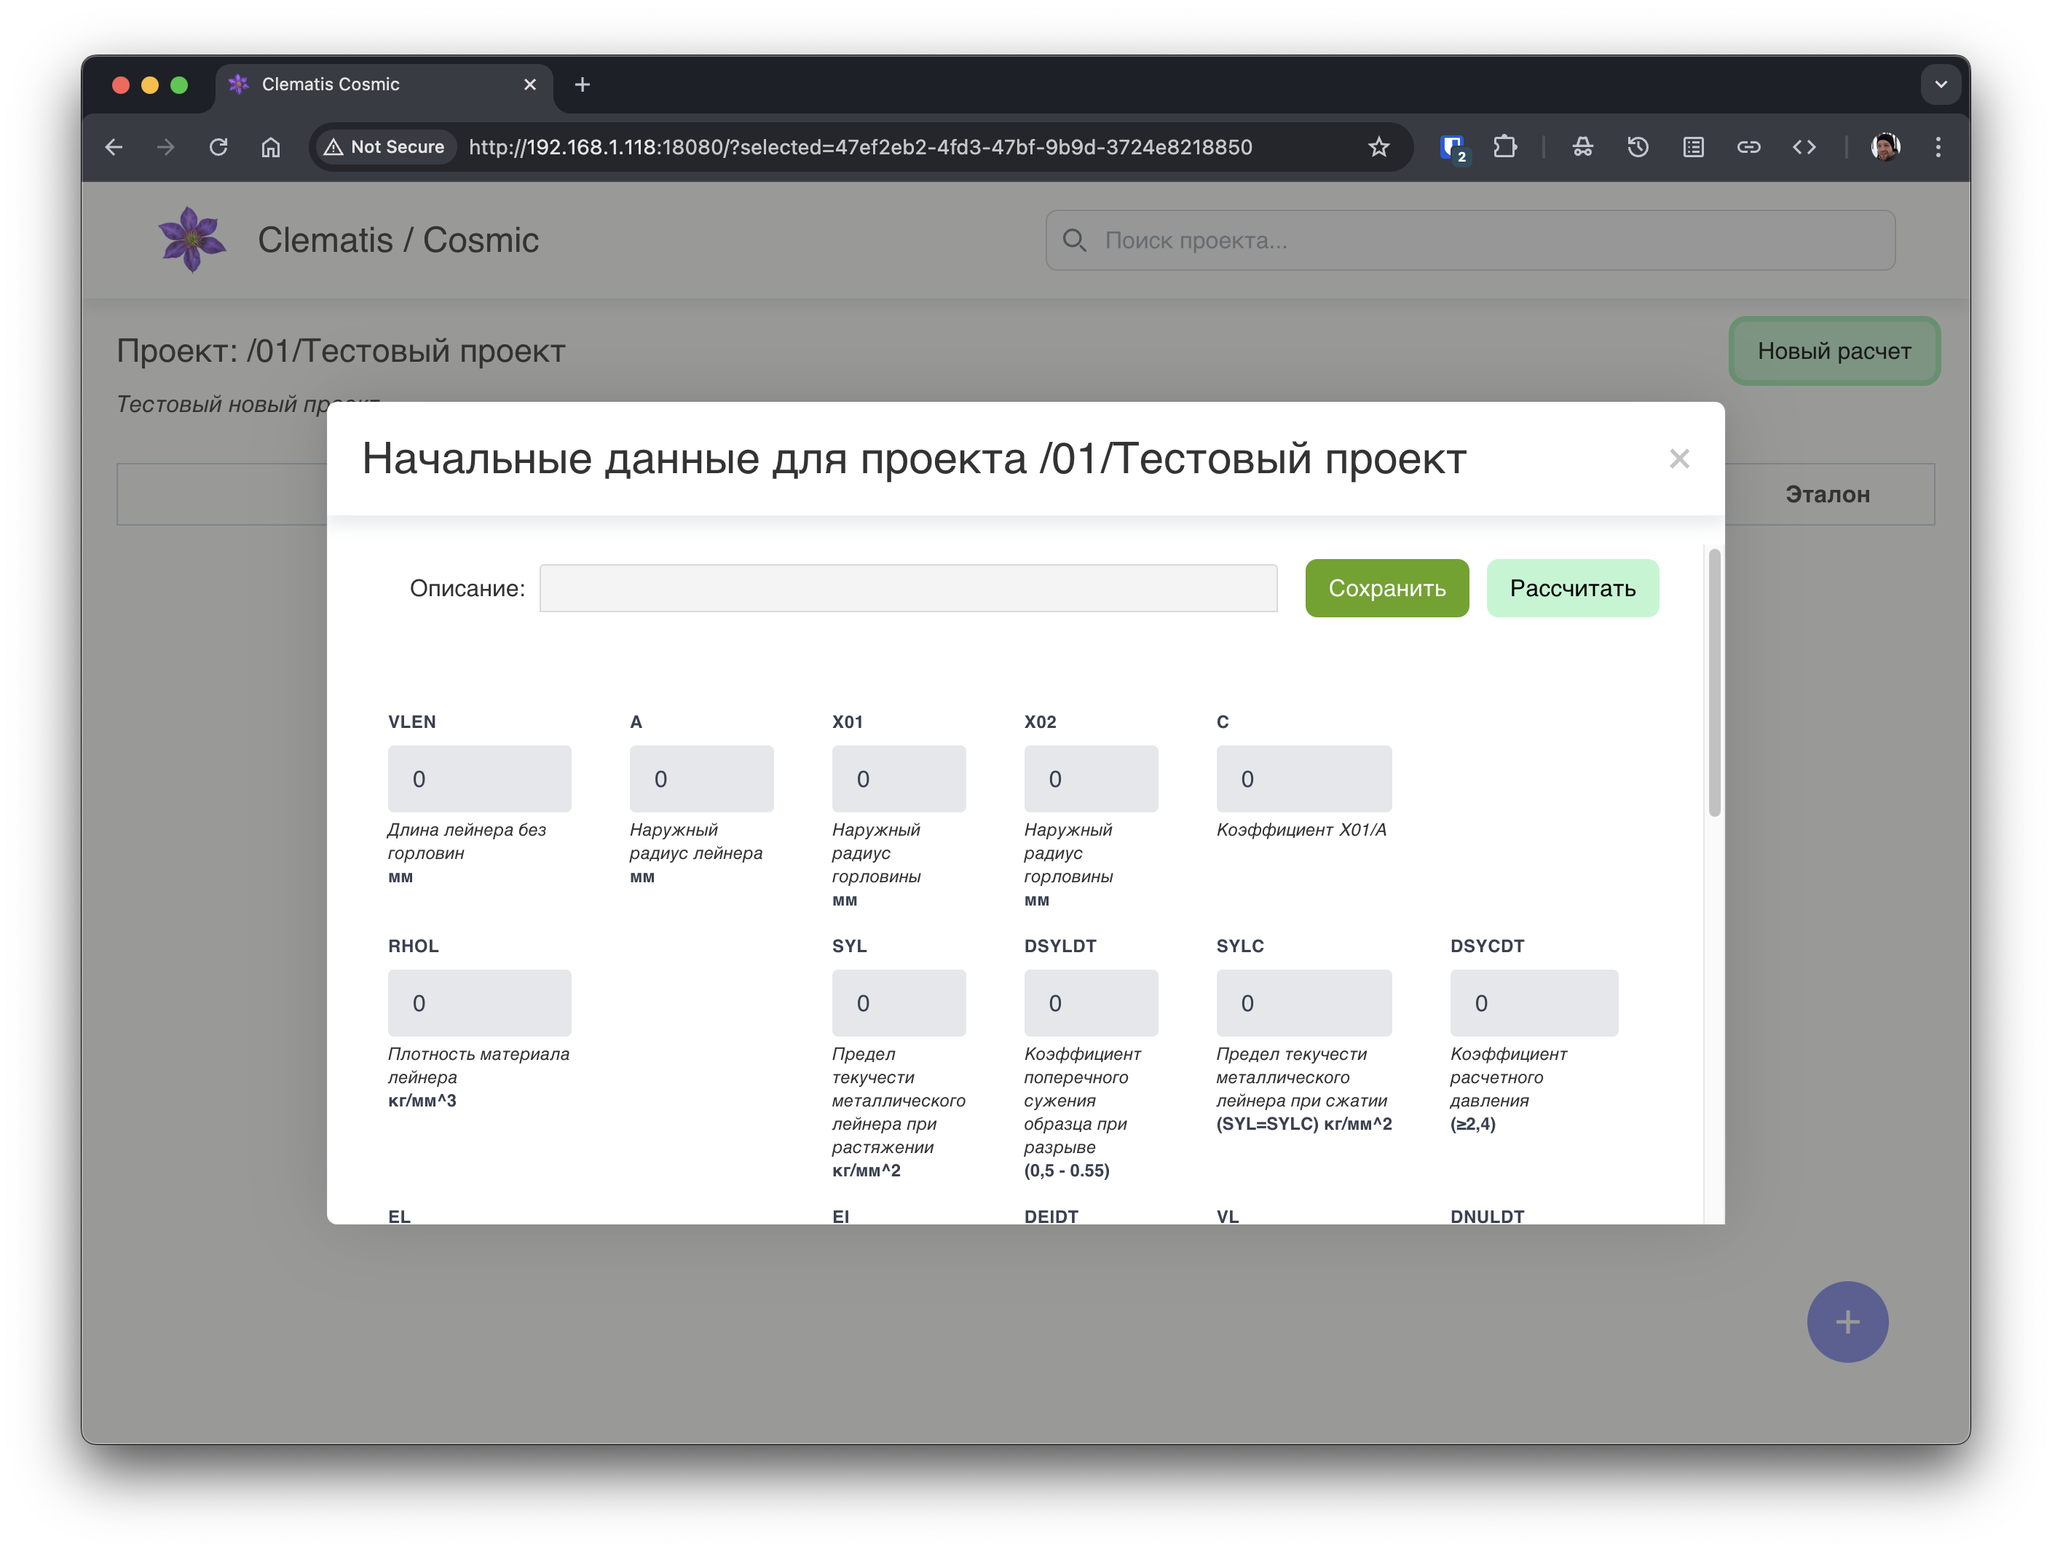
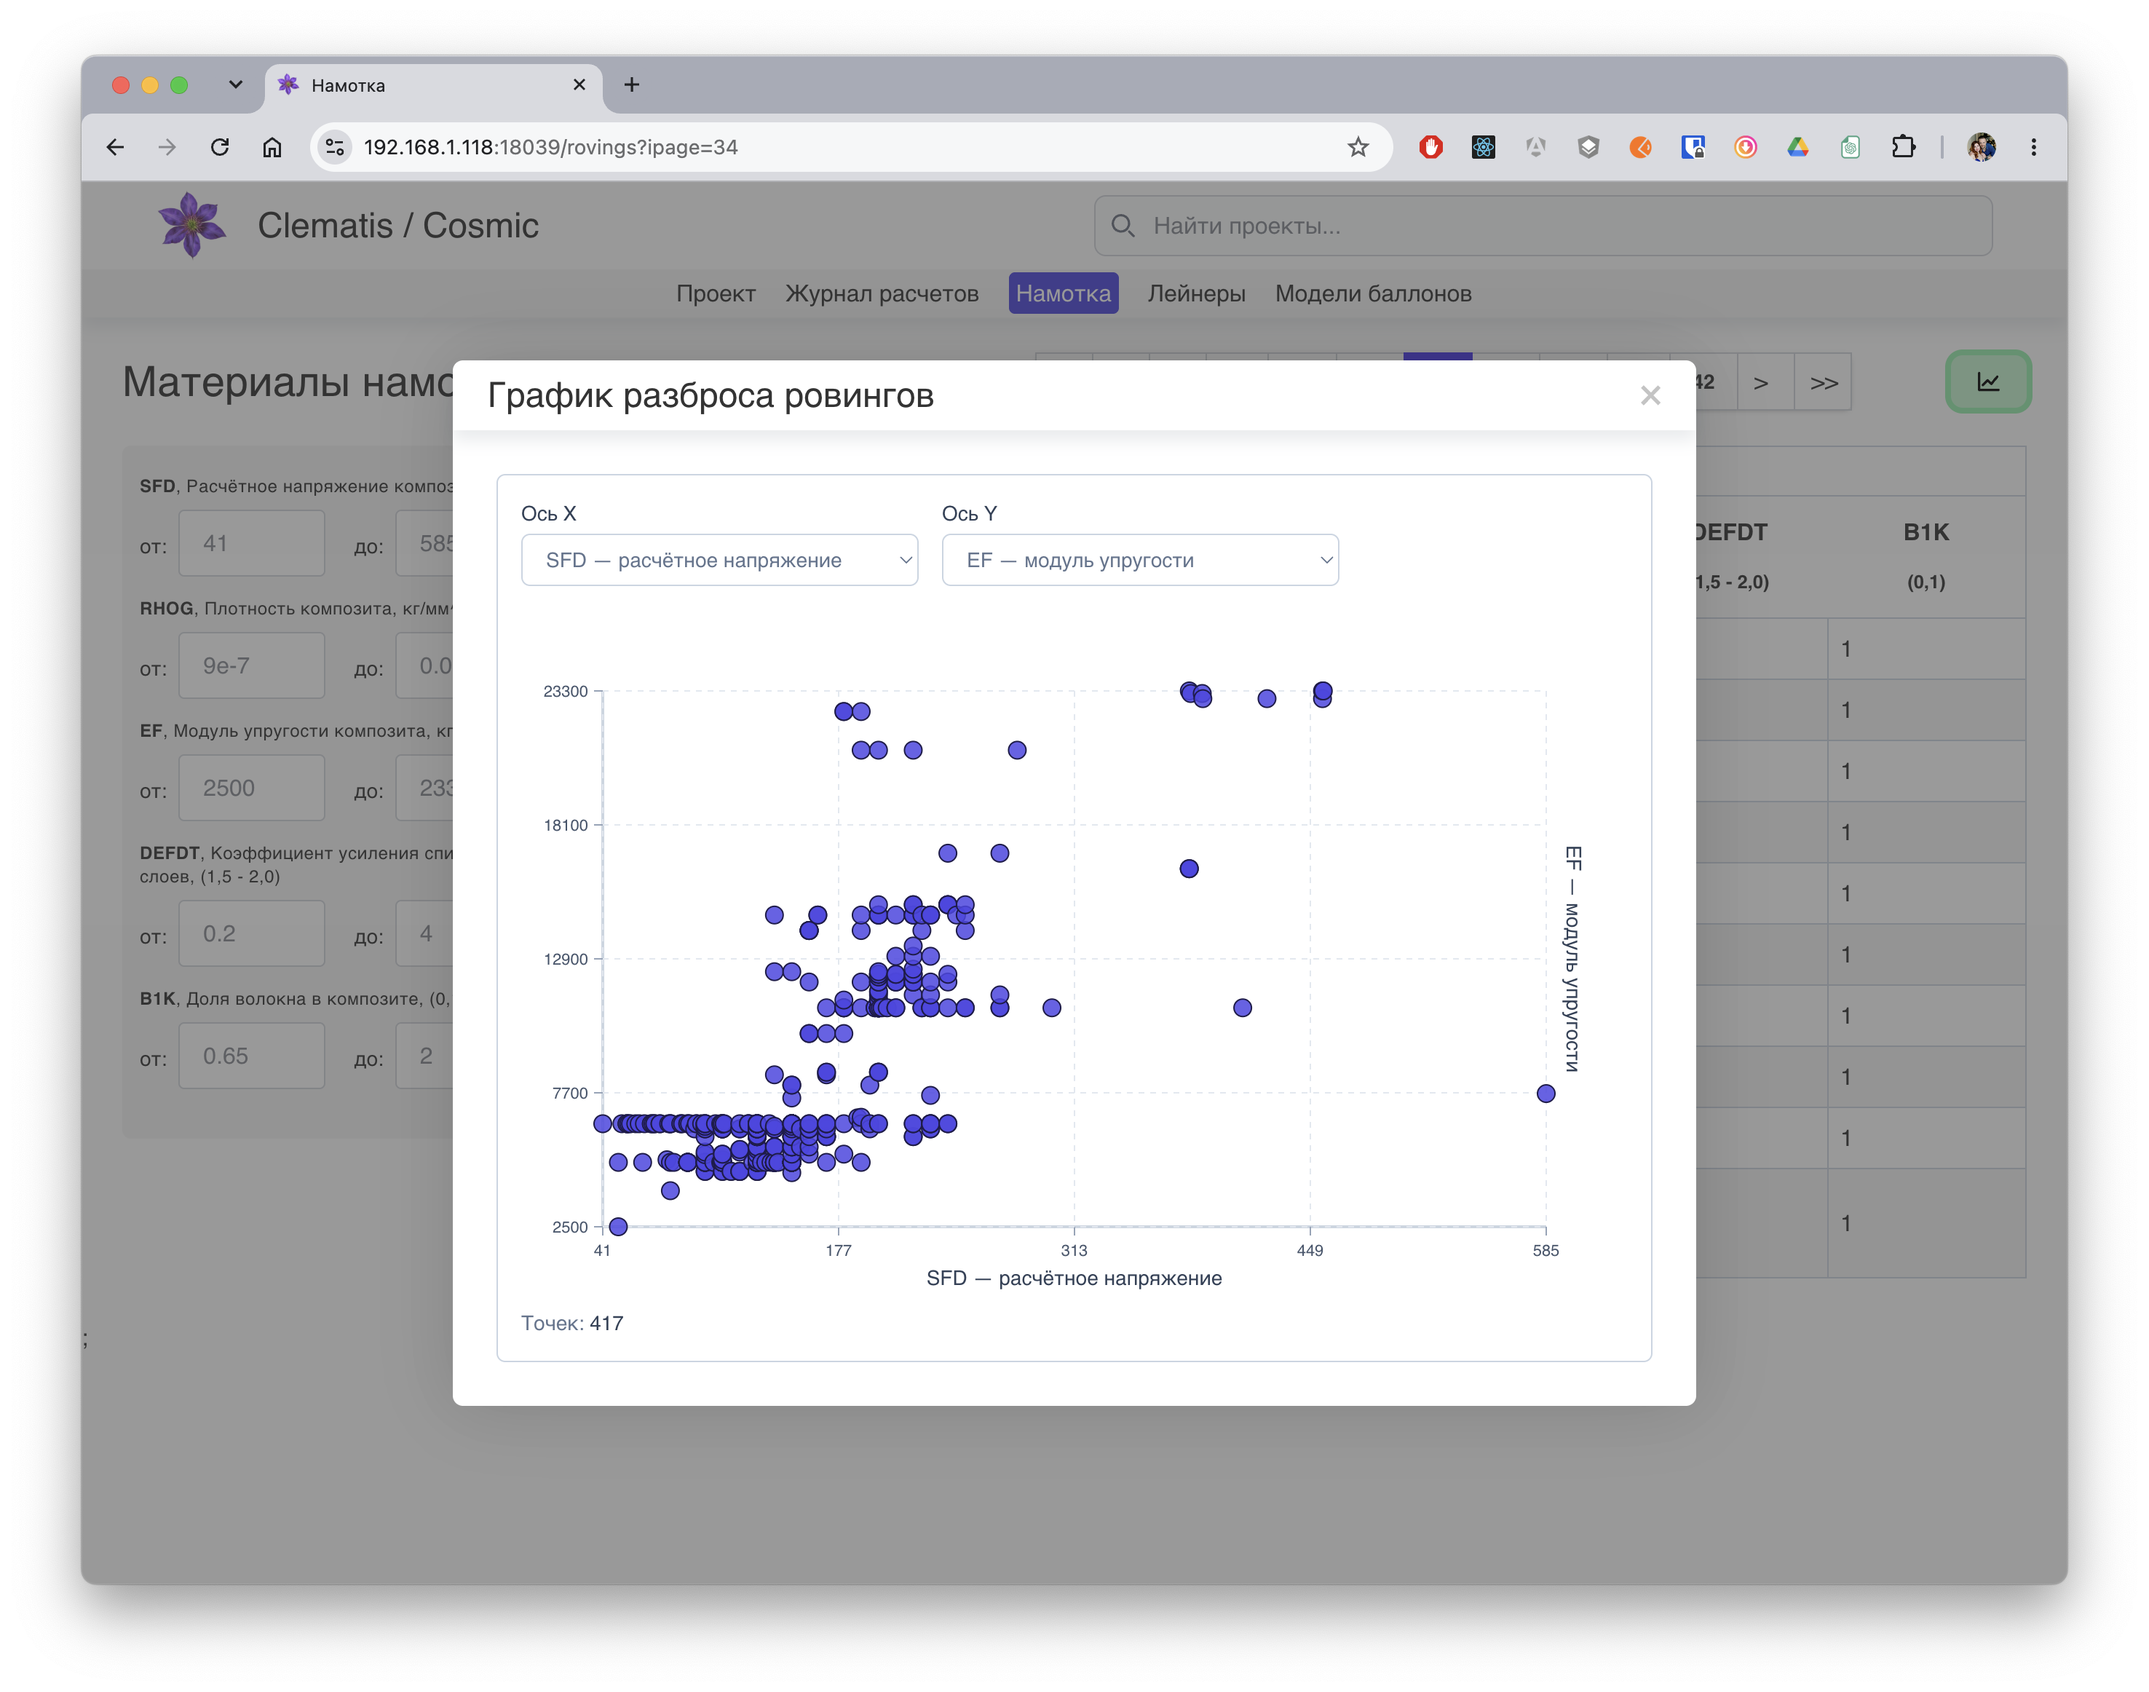
[+] Updated home page

diff --git a/docusaurus.config.ts b/docusaurus.config.ts
@@ -104,20 +104,28 @@ const config: Config = {
               to: '/docs/web-applications',
             },
             {
+              label: 'Web Applications Security',
+              to: '/docs/web-applications-security'
+            },
+            {
               label: 'Recipe Book',
               to: '/docs/recipe-book/react/props-and-state',
             },
           ],
         },
         {
-          title: 'All Projects',
+          title: 'Web Applications',
           items: [
             {
-              label: 'Clematis Storage API',
+              label: 'Storage API',
               href: 'https://github.com/grauds/clematis.storage.api',
             },
             {
-              label: 'Clematis Weather API',
+              label: 'Storage API Feign Client',
+              href: 'https://github.com/grauds/clematis.storage.api.client',
+            },
+            {
+              label: 'Weather API',
               href: 'https://github.com/grauds/clematis.weather.api',
             },
             {
@@ -133,14 +141,31 @@ const config: Config = {
               href: 'https://github.com/grauds/clematis.poc.pomodoro',
             },
             {
-              label: 'Cosmic UI',
-              href: 'https://github.com/grauds/clematis.cosmic.ui',
-            },
-            {
-              label: 'Cosmic API',
-              href: 'https://github.com/grauds/clematis.cosmic',
+              label: 'Archived: E-learning prototype',
+              href: 'https://github.com/grauds/clematis.poc.gwtp',
             },
           ],
+        },
+        {
+          title: 'Clematis Java Workspace',
+          items: [
+            {
+              label: 'Desktop',
+              href: 'https://github.com/grauds/clematis.desktop',
+            },
+            {
+              label: 'Code Editor Plugin',
+              href: 'https://github.com/grauds/clematis.desktop.sed',
+            },
+            {
+              label: 'Math Parser',
+              href: 'https://github.com/grauds/clematis.math.parser'
+            },
+            {
+              label: 'SKOS Parser',
+              href: 'https://github.com/grauds/clematis.skos.parser'
+            }
+          ]
         },
         {
           title: 'More',
@@ -152,10 +177,6 @@ const config: Config = {
             {
               label: 'GitHub',
               href: 'https://github.com/grauds',
-            },
-            {
-              label: 'Java Workspace',
-              href: 'https://github.com/grauds/clematis.desktop',
             },
           ],
         },

diff --git a/docs/web-applications-security/angular-https.md b/docs/web-applications-security/angular-https.md
@@ -10,7 +10,7 @@ tags:
 # Angular Frontend Switch to HTTPS
 
 Keycloak checks storage access during authentication to know if it is able to work with the local storage of the client's
-browser. If the connection is not secured, development console will show a message ```Access to storage is not allowed from this context```.
+browser. If the connection is not secured, the development console will show a message ```Access to storage is not allowed from this context```.
 There is also a definitive bias towards excluding non-secure connections from support in Keycloak, for example in the
 following thread:
 [enforce security on Keycloak users](https://github.com/keycloak/keycloak/discussions/32087).

diff --git a/docs/web-applications-security/web-applications-security.md b/docs/web-applications-security/web-applications-security.md
@@ -11,5 +11,5 @@ tags:
 
 # Web Applications Security
 
-Currently, only [Money Tracker](https://github.com/grauds/money.tracker.ui) application uses HTTPS for frontend. This
+All web applications use HTTPS for frontend. This
 chapter describes the transition to HTTPS from HTTP in detail.
